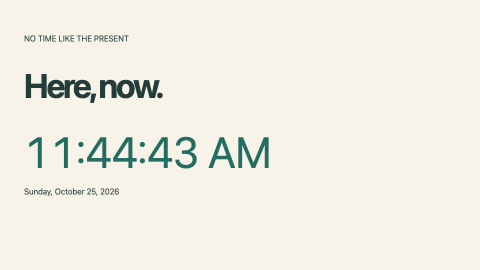
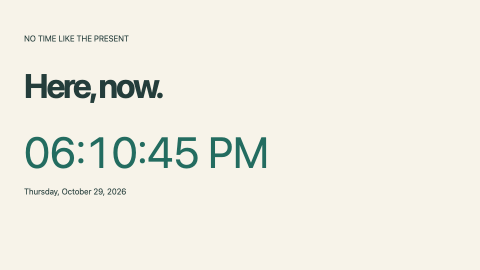
Unify HashBin saves with the sharing dialog

Changed region(s): [[0.0312, 0.5037, 0.2812, 0.6222], [0.3438, 0.5037, 0.5625, 0.6222], [0.0312, 0.6815, 0.2812, 0.7407]]

diff --git a/index.html b/index.html
@@ -29,12 +29,12 @@
           <button id="open-files">Open files…</button><label class="check-label"><input id="replace-import" type="checkbox"> Replace project on import</label>
           <label>Download<select id="download"><option value="">Choose a format…</option><option value="file">Current file</option><option value="html">Page as one .html</option><option value="zip">Project as .zip</option></select></label>
           <p class="fine">HTML downloads keep links to other pages. Use the ZIP for a whole site.</p>
-          <button id="share-mobile" class="mobile-only">Share link</button><button id="qr-mobile" class="mobile-only">QR code</button>
+          <button id="share-mobile" class="mobile-only">Share</button><button id="qr-mobile" class="mobile-only">QR code</button>
           <label class="mobile-only check-label"><input id="auto-mobile" type="checkbox" checked> Auto-refresh</label>
           <button id="hide-editor">Hide editor</button>
           <p class="menu-label">HashBin</p>
           <label for="hashbin-cid">CID or saved link</label><div class="inline-controls"><input id="hashbin-cid" placeholder="Paste a CID"><button id="hashbin-load">Load</button></div>
-          <button id="hashbin-save">Save to HashBin</button><p id="hashbin-status" class="fine" role="status"></p>
+          <p id="hashbin-status" class="fine" role="status"></p>
           <p class="menu-label">Explore & learn</p>
           <div class="docs-links"><a href="gallery.html">Sample gallery ↗</a><a href="./?example=guide&view" target="_blank" rel="noopener">Guide ↗</a><a href="https://developer.mozilla.org/en-US/docs/Web/HTML" target="_blank" rel="noopener">HTML ↗</a><a href="https://developer.mozilla.org/en-US/docs/Web/CSS" target="_blank" rel="noopener">CSS ↗</a><a href="https://developer.mozilla.org/en-US/docs/Web/JavaScript" target="_blank" rel="noopener">JavaScript ↗</a><a href="https://commonmark.org/help/" target="_blank" rel="noopener">Markdown ↗</a><a href="https://github.github.com/gfm/" target="_blank" rel="noopener">GFM ↗</a><a href="https://github.com/curtcox/pages" target="_blank" rel="noopener">Fork on GitHub ↗</a></div>
         </div></details>
@@ -64,9 +64,8 @@
   <footer id="app-footer"><span><i class="status-dot"></i> <span id="offline-status">Setting up offline access…</span> <button id="offline-action" hidden>Retry offline setup</button></span><a href="gallery.html">18 little starting points →</a><span>HTML · CSS · JavaScript · Markdown</span></footer>
   <input id="file-input" type="file" multiple accept=".html,.htm,.css,.js,.mjs,.md,.json,.svg,.txt,.csv,.xml" hidden>
   <dialog id="file-dialog"><form method="dialog"><header><h2>File actions</h2><button aria-label="Close">×</button></header><label>File name<input id="file-name" required maxlength="240"></label><p class="fine">Renaming does not update references in other files.</p><div class="dialog-actions"><button id="rename-file" type="button">Rename</button><button id="entry-file" type="button">Use as entry page</button><button id="delete-file" type="button" class="danger">Delete file</button></div></form></dialog>
-  <dialog id="share-dialog"><header><h2>Share your project</h2><button id="share-close" aria-label="Close">×</button></header><label>Open link in<select id="share-mode"><option value="editor">Editor</option><option value="view">Page only</option></select></label><label class="check-label"><input id="share-no-run" type="checkbox"> Don't run on open</label><label>Share link<textarea id="share-url" rows="3" readonly></textarea></label><p id="share-status" class="fine" role="status"></p><div class="dialog-actions"><button id="share-copy" class="primary">Copy</button><button id="share-shorten">Shorten link</button></div><p class="fine">Links contain your project. Save to HashBin for a shorter saved link.</p></dialog>
+  <dialog id="share-dialog"><header><h2>Share your project</h2><button id="share-close" aria-label="Close">×</button></header><label>Open link in<select id="share-mode"><option value="editor">Editor</option><option value="view">Page only</option></select></label><label class="check-label"><input id="share-no-run" type="checkbox"> Don't run on open</label><label>Share link<textarea id="share-url" rows="3" readonly></textarea></label><p id="share-status" class="fine" role="status"></p><div class="dialog-actions"><button id="share-copy" class="primary">Copy</button><button id="share-shorten">Shorten link</button><button id="hashbin-confirm" disabled>Save to HashBin</button></div><p class="fine">Links contain your project. Save to HashBin for a shorter saved link.</p><p id="hashbin-message" role="status"></p></dialog>
   <dialog id="qr-dialog"><header><h2>A page to pass along</h2><button id="qr-close" aria-label="Close">×</button></header><label>QR destination<select id="qr-mode"><option value="editor">Opens the editor</option><option value="view">Opens the page only</option></select></label><div id="qr-code"></div><p id="qr-warning" class="fine" role="status"></p><div class="dialog-actions"><button id="qr-svg">Download SVG</button><button id="qr-png">Download PNG</button></div></dialog>
-  <dialog id="hashbin-dialog"><header><h2>Save to HashBin</h2><button id="hashbin-close" aria-label="Close">×</button></header><p id="hashbin-message" role="status"></p><div class="dialog-actions"><button id="hashbin-confirm" class="primary">Review on HashBin</button></div></dialog>
   <script src="vendor/marked.min.js?v=1"></script><script src="vendor/acorn.min.js?v=1"></script><script src="vendor/lz-string.min.js?v=1"></script>
   <script src="src/project.js?v=1"></script><script src="src/markdown.js?v=1"></script><script src="src/loop-guard.js?v=1"></script><script src="src/preview-runtime.js?v=1"></script><script src="src/bundler.js?v=1"></script><script src="src/preview.js?v=1"></script><script src="src/console-view.js?v=1"></script><script src="src/render-scheduler.js?v=1"></script><script src="src/hashbin.js?v=1"></script><script src="src/hashbin-panel.js?v=1"></script><script src="src/share-links.js?v=1"></script><script src="src/qr.js?v=1"></script><script src="src/zip.js?v=1"></script><script src="src/export.js?v=1"></script><script src="src/examples.js?v=1"></script><script src="src/app.js?v=1"></script><script src="src/offline.js?v=1"></script>
 </body>

diff --git a/src/app.js b/src/app.js
@@ -101,7 +101,7 @@ function setProject(value,{cid = null,render = auto,reset = true,update = true} 
 }
 const store = new HashBinStore({clientId:document.querySelector('meta[name=hashbin-client-id]').content,redirectUri:new URL('./',location.href).href,storage:local,transactionStorage:session});
 let linkLoad = false;
-const panel = new HashBinPanel({store,getSnapshot:snapshot,getFingerprint:fingerprint,onLoad:(value,cid)=>{ if (linkLoad && !acceptLink(value)) { kept = true; return false; } setProject(value,{cid}); $('more').open = false; },onSaved:(cid,fp,link)=>{savedCID = cid;savedFingerprint = fp;history.replaceState(null,'',link);}});
+const panel = new HashBinPanel({store,getSnapshot:snapshot,getFingerprint:fingerprint,onLoad:(value,cid)=>{ if (linkLoad && !acceptLink(value)) { kept = true; return false; } setProject(value,{cid}); $('more').open = false; },onSaved:(cid,fp,link)=>{savedCID = cid;savedFingerprint = fp;history.replaceState(null,'',link);refreshShare();},getShareOptions:shareOptions,getSavedLink:(cid,project)=>ShareLinks.build({url:location.href,project,cid,...shareOptions()}).long});
 window.pagesApp = {getProject:snapshot,setProject,preview,store,get editor(){return editor;},run};
 $('run').onclick = run; $('reload').onclick = run; $('view-run').onclick = run;
 $('auto-refresh').onchange = event=>setAuto(event.target.checked); $('auto-mobile').onchange = event=>setAuto(event.target.checked); setAuto(auto);
@@ -127,8 +127,9 @@ $('open-files').onclick = ()=>$('file-input').click();
 $('file-input').onchange = async event=>{ try { const result = await Export.importFiles(event.target.files,snapshot(),$('replace-import').checked); setProject(result); $('more').open = false; } catch (error) { notice(error.message); } event.target.value = ''; };
 $('download').onchange = event=>{ const kind = event.target.value; event.target.value = ''; try { if (kind === 'file') Export.file(snapshot()); if (kind === 'html') Export.html(snapshot(),preview.page || project.entry); if (kind === 'zip') Export.project(snapshot()); } catch (error) { notice(error.message); } };
 const shareClient = new ShareClient(); let shareRevision = 0;
-function refreshShare() { shareRevision++; shareClient.cancel(); $('share-url').value = shareLink({view:$('share-mode').value === 'view',run:!$('share-no-run').checked}).long; $('share-status').textContent = ''; }
-function openShare() { $('more').open = false; refreshShare(); $('share-dialog').showModal(); }
+function shareOptions() { return {view:$('share-mode').value === 'view',run:!$('share-no-run').checked,page:preview.page || project.entry}; }
+function refreshShare() { shareRevision++; shareClient.cancel(); $('share-url').value = shareLink(shareOptions()).long; $('share-status').textContent = ''; panel.refreshSavedLink(); }
+function openShare() { $('more').open = false; refreshShare(); $('share-dialog').showModal(); panel.openSave(); }
 $('share').onclick = openShare; $('share-mobile').onclick = openShare; $('share-close').onclick = ()=>$('share-dialog').close();
 $('share-mode').onchange = refreshShare; $('share-no-run').onchange = refreshShare;
 $('share-dialog').addEventListener('close',()=>{shareRevision++;shareClient.cancel();});
@@ -169,7 +170,7 @@ if (!view) {
     editor.commands.addCommand({name:'run-page',bindKey:{win:'Ctrl-Enter',mac:'Command-Enter'},exec:run});
   } catch (_) { fallback = document.createElement('textarea'); fallback.className = 'fallback-editor'; fallback.setAttribute('aria-label','Source editor'); fallback.spellcheck = false; fallback.oninput = changed; $('ace-editor').append(fallback); notice('The code editor could not load. You can keep editing in the text field.'); }
 }
-let restored = false, kept = false;
+let restored = false, kept = false, returnedShare = false;
 if (!view) {
   try { const stored = local?.getItem(key); if (stored) project = Project.validate(JSON.parse(stored)); }
   catch (_) { notice('The saved project could not be restored. Starting with a fresh page.'); }
@@ -180,7 +181,15 @@ if (initial.kind === 'publish') {
   if (beforeReturn !== fingerprint()) {
     restored = true; updateURL();
     notice('The HashBin return finished after you edited the project. Your newer edits were kept.');
-  } else if (result?.snapshot) { setProject(result.snapshot,{cid:result.cid || null,render:false}); restored = true; } else updateURL();
+  } else if (result?.snapshot) {
+    setProject(result.snapshot,{cid:result.cid || null,render:false}); restored = true;
+    if (result.share) {
+      $('share-mode').value = result.share.view === true ? 'view' : 'editor';
+      $('share-no-run').checked = result.share.run === false;
+      if (project.files.some(f=>f.name === result.share.page && Project.PAGE.test(f.name))) preview.page = result.share.page;
+      returnedShare = true;
+    }
+  } else updateURL();
   if (result?.error) notice(result.error); else if (result) $('hashbin-status').textContent = 'Saved to HashBin.';
 }
 if (!restored) {
@@ -198,11 +207,12 @@ if (initial.kind === 'cid' && !restored) {
   // Keep a source revision so a slow CID request cannot replace edits made during loading.
   linkLoad = true; await panel.load(initial.cid); linkLoad = false;
   if (initial.page && project.files.some(f=>f.name === initial.page && Project.PAGE.test(f.name))) preview.page = initial.page;
-  if (auto) run();
+  if (auto) run(); else $('view-run').hidden = !view;
 } else if (auto && initial.run !== false) run();
 else $('view-run').hidden = !view;
 persist();
 if (kept) updateURL();
+if (returnedShare) openShare();
 store.retireLegacyTokens().catch(()=>{ /* Retried on the next load. */ });
 window.addEventListener('hashchange',()=>location.reload());
 })();

diff --git a/src/examples.js b/src/examples.js
@@ -191,7 +191,7 @@ const Examples = {catalog:[
         },
         {
           "name": "sharing.md",
-          "text": "# Sharing & offline\n\n[Home](index.md) · [Files](files.md) · [Sandbox](sandbox.md)\n\n## Share a project\n\n**Share** creates a compressed link containing your project. Choose Editor or Page only, and optionally Don't run on open. Anyone with the link can read its source. Avoid including secrets.\n\nPage-only links keep a small strip identifying the content as a user-created page. The Edit link brings the same project into the editor.\n\n**QR** encodes the link and downloads SVG or PNG. Large projects make dense QR codes; Save to HashBin creates a shorter link. The optional is.gd shortener uses the AllOrigins proxy and needs a connection.\n\n## HashBin\n\nLoad a CID without signing in. Saving uses your HashBin account balance and retention settings, with a quote before saving. Sign-in preserves your project in this tab.\n\nPages Online has a registered public client ID. Choose **More → Save to HashBin** to connect your account; sign-in returns to `https://curtcox.github.io/pages/`. The browser app uses no client secret. The JSON document can be larger than the raw files because it includes the entry source for compatibility; HashBin checks the full document against its 5 MiB limit.\n\n## Take your files with you\n\nDownload the current file, the displayed page as one HTML file, or the project ZIP. A ZIP preserves every file path and can be hosted directly. One-page HTML downloads keep links to other pages, which must be downloaded separately. Markdown source files need conversion to HTML before ordinary static hosting will render them as pages.\n\nOpen files can add local text files or replace the project. Importing a ZIP or binary image is deferred.\n\n## Offline\n\nWhen the footer says **Available offline**, the app, editor, bundled libraries, samples, and gallery covers are cached. You can install it as a PWA. External resources in your page (CDN scripts, fonts, photos) are not cached, because the sandbox is not controlled by the editor's service worker. HashBin and link shortening also need internet.\n\nUpdates offer **Update and reload** after preserving your project. Browser storage is best-effort: download a backup of work you want to keep.\n"
+          "text": "# Sharing & offline\n\n[Home](index.md) · [Files](files.md) · [Sandbox](sandbox.md)\n\n## Share a project\n\n**Share** creates a compressed link containing your project. Choose Editor or Page only, and optionally Don't run on open. Anyone with the link can read its source. Avoid including secrets.\n\nPage-only links keep a small strip identifying the content as a user-created page. The Edit link brings the same project into the editor.\n\n**QR** encodes the link and downloads SVG or PNG. Large projects make dense QR codes; Save to HashBin creates a shorter link. The optional is.gd shortener uses the AllOrigins proxy and needs a connection.\n\n## HashBin\n\nLoad a CID without signing in. Saving uses your HashBin account balance and retention settings, with a quote before saving. Sign-in preserves your project in this tab.\n\nPages Online has a registered public client ID. Choose **Share**, select **Editor** or **Page only**, then **Save to HashBin**. HashBin shows the exact price and asks you to approve the save. The saved link appears in the same Share dialog, using your destination and **Don’t run on open** choices. If popups are blocked, the project and sharing choices are restored after returning to `https://curtcox.github.io/pages/`. The browser app uses no client secret. The JSON document can be larger than the raw files because it includes the entry source for compatibility; HashBin checks the full document against its 5 MiB limit.\n\n## Take your files with you\n\nDownload the current file, the displayed page as one HTML file, or the project ZIP. A ZIP preserves every file path and can be hosted directly. One-page HTML downloads keep links to other pages, which must be downloaded separately. Markdown source files need conversion to HTML before ordinary static hosting will render them as pages.\n\nOpen files can add local text files or replace the project. Importing a ZIP or binary image is deferred.\n\n## Offline\n\nWhen the footer says **Available offline**, the app, editor, bundled libraries, samples, and gallery covers are cached. You can install it as a PWA. External resources in your page (CDN scripts, fonts, photos) are not cached, because the sandbox is not controlled by the editor's service worker. HashBin and link shortening also need internet.\n\nUpdates offer **Update and reload** after preserving your project. Browser storage is best-effort: download a backup of work you want to keep.\n"
         }
       ],
       "entry": "index.md",

diff --git a/offline-assets.js b/offline-assets.js
@@ -1,6 +1,6 @@
 // GENERATED by scripts/update-offline.mjs.
 const OfflineAssets = {
-  "version": "pagesonline-7a3b21b35b82b12e",
+  "version": "pagesonline-d93f4d526b8baafa",
   "assets": [
     "ace/LICENSE",
     "ace/ace.js",
@@ -93,12 +93,12 @@ const OfflineAssets = {
[14 lines of base64/hex data omitted]
@@ -117,18 +117,18 @@ const OfflineAssets = {
[23 lines of base64/hex data omitted]

diff --git a/src/hashbin-panel.js b/src/hashbin-panel.js
@@ -1,16 +1,14 @@
 /** HashBin controls: snapshot saves approved on hashbin.org, and stale-load guards. */
 class HashBinPanel {
-  constructor({ store, getSnapshot, getFingerprint, onLoad, onSaved }) {
-    Object.assign(this, { store, getSnapshot, getFingerprint, onLoad, onSaved });
+  constructor({ store, getSnapshot, getFingerprint, onLoad, onSaved, getShareOptions, getSavedLink }) {
+    Object.assign(this, { store, getSnapshot, getFingerprint, onLoad, onSaved, getShareOptions, getSavedLink });
     this.revision = 0;
     this.status = document.getElementById('hashbin-status');
-    this.dialog = document.getElementById('hashbin-dialog');
+    this.dialog = document.getElementById('share-dialog');
     this.message = document.getElementById('hashbin-message');
     this.confirm = document.getElementById('hashbin-confirm');
     document.getElementById('hashbin-load').onclick = () => this.load(document.getElementById('hashbin-cid').value);
     document.getElementById('hashbin-cid').onkeydown = event => { if (event.key === 'Enter') this.load(event.target.value); };
-    document.getElementById('hashbin-save').onclick = () => this.openSave();
-    document.getElementById('hashbin-close').onclick = () => this.dialog.close();
     this.dialog.addEventListener('close', () => { this.dialogRevision = (this.dialogRevision || 0) + 1; });
     this.confirm.onclick = () => this.commit();
   }
@@ -34,7 +32,8 @@ class HashBinPanel {
     if (this.saving) return;
     const revision = this.dialogRevision = (this.dialogRevision || 0) + 1;
     this.confirm.disabled = true;
-    this.confirm.textContent = 'Review on HashBin';
+    this.confirm.textContent = 'Save to HashBin';
+    this.savedLink = null;
     this.message.textContent = 'Preparing save…';
     if (!this.dialog.open) this.dialog.showModal();
     try {
@@ -54,21 +53,27 @@ class HashBinPanel {
     this.confirm.disabled = true;
     this.saving = true;
     try {
-      const pending = this.store.publish(this.payload, this.snapshot);
+      const pending = this.store.publish(this.payload, this.snapshot, this.getShareOptions());
       this.message.textContent = 'Waiting for your approval on HashBin…';
       const result = await pending;
       if (result.redirected) return;
       this.saved(result.cid, this.fingerprint);
       this.message.replaceChildren(document.createTextNode('Saved. '));
       const a = document.createElement('a');
-      a.href = HashBinDocuments.link(location.href, result.cid);
-      a.textContent = 'Open saved source';
+      this.savedLink = { element:a, cid:result.cid, snapshot:this.snapshot };
+      this.refreshSavedLink();
       this.message.append(a);
       this.confirm.textContent = 'Saved';
     } catch (error) {
       this.message.textContent = error.message;
       this.confirm.disabled = false;
     } finally { this.saving = false; }
+  }
+  refreshSavedLink() {
+    if (!this.savedLink) return;
+    const { element, cid, snapshot } = this.savedLink;
+    element.href = this.getSavedLink(cid, snapshot);
+    element.textContent = this.getShareOptions().view ? 'Open saved page' : 'Open saved project';
   }
   /** Records a verified save, unless the project changed while HashBin was open. */
   saved(cid, fingerprint) {

diff --git a/src/hashbin.js b/src/hashbin.js
@@ -110,9 +110,9 @@ class HashBinStore {
     return this.initializing;
   }
   /** Call synchronously from a click after init(), so the approval popup is allowed. A blocked popup redirects. */
-  publish(payload, snapshot) {
+  publish(payload, snapshot, share) {
     if (!this.client) return Promise.reject(new Error('HashBin is still loading. Try again.'));
-    return this.client.publish(payload, { contentType: 'application/json', clientState: { snapshot } }).then(async result => {
+    return this.client.publish(payload, { contentType: 'application/json', clientState: { snapshot, ...(share ? { share } : {}) } }).then(async result => {
       if (result.redirected) return result;
       if (!HashBinDocuments.isCID(result.cid)) throw new Error('HashBin returned an invalid CID.');
       await HashBinDocuments.verify(result.cid, HashBinDocuments.bytes(payload));
@@ -131,14 +131,14 @@ class HashBinStore {
       const { cid, clientState } = await (await this.init()).handlePublishCallback({ hash });
       const snapshot = clientState?.snapshot;
       if (snapshot) await HashBinDocuments.verify(cid, HashBinDocuments.bytes(HashBinDocuments.serialize(snapshot)));
-      return { cid, snapshot };
+      return { cid, snapshot, ...(clientState?.share ? { share:clientState.share } : {}) };
     } catch (error) {
       let snapshot = null;
       if (error.clientState?.snapshot) {
         try { snapshot = HashBinDocuments.parse(HashBinDocuments.serialize(error.clientState.snapshot)); }
         catch (_) { return { error: 'The returned project is invalid. Your current project was kept.', snapshot: null }; }
       }
-      return { error: this.message(error), snapshot };
+      return { error: this.message(error), snapshot, ...(error.clientState?.share ? { share:error.clientState.share } : {}) };
     }
   }
   /** Earlier versions kept OAuth tokens on this shared origin. Revoke them server-side; clearing alone leaves copies valid. */

diff --git a/tests/hashbin.test.js b/tests/hashbin.test.js
@@ -54,3 +54,13 @@ test('network loads and saves verify bytes against the CID',async()=>{
  const store=new HashBinStore({clientId:'test',loadSDK:async()=>({HashBinClient:SDK})});await store.init();
  await assert.rejects(store.publish(payload,P.single('# Verified remote')),/does not match its CID/);
 });
+
+test('Publish carries sharing choices through approved and cancelled redirects',async()=>{
+ const snapshot=P.single('# Shared'),payload=D.serialize(snapshot),savedCid=cid(payload),share={view:true,run:false,page:'index.md'};let clientState;
+ class SDK{publish(content,options){clientState=options.clientState;return Promise.resolve({redirected:true})}async handlePublishCallback(){return {cid:savedCid,clientState}}}
+ const store=new HashBinStore({clientId:'test',loadSDK:async()=>({HashBinClient:SDK})});await store.init();
+ assert.deepEqual(await store.publish(payload,snapshot,share),{redirected:true});assert.deepEqual(clientState,{snapshot,share});
+ assert.deepEqual(await store.published('#hashbin_publish=s'),{cid:savedCid,snapshot,share});
+ store.client.handlePublishCallback=async()=>{throw Object.assign(new Error('access_denied'),{clientState})};
+ assert.deepEqual(await store.published('#hashbin_publish=s'),{error:'The save was cancelled on HashBin.',snapshot,share});
+});

diff --git a/README.md b/README.md
@@ -53,7 +53,7 @@ npm run offline
 
 ## HashBin setup
 
-**Pages Online** is registered with HashBin, and its public client ID is configured in the `hashbin-client-id` meta tag in `index.html`. Choose **More → Save to HashBin**, then **Review on HashBin**: HashBin Publish shows the size, retention, exact price and your balance, and you approve the save on hashbin.org. This app never holds a HashBin credential. If the popup is blocked, projects up to 512 KiB go through a redirect to the exact return URL **`https://curtcox.github.io/pages/`**, and the project is restored on return. Larger projects require enabling popups and retrying. Cancelled redirect saves restore the project too. The SDK is pinned to `https://hashbin.org/sdk/v0.4.0/hashbin.js` and loaded with the release's published Subresource Integrity hash; a substituted SDK is rejected. Upgrade the URL and integrity hash together using the [SDK release manifest](https://hashbin.org/sdk/v0.4.0/integrity.json). CID loading works without signing in: paste a CID or saved link into **More → HashBin → Load**, or open a `#<cid>` link.
+**Pages Online** is registered with HashBin, and its public client ID is configured in the `hashbin-client-id` meta tag in `index.html`. Choose **Share**, select **Editor** or **Page only**, then **Save to HashBin**: HashBin Publish shows the size, retention, exact price and your balance, and you approve the save on hashbin.org. The saved link appears in the same Share dialog and follows its destination and **Don’t run on open** choices. This app never holds a HashBin credential. If the popup is blocked, projects up to 512 KiB go through a redirect to the exact return URL **`https://curtcox.github.io/pages/`**, and the project is restored on return. Larger projects require enabling popups and retrying. Cancelled redirect saves restore the project too. The SDK is pinned to `https://hashbin.org/sdk/v0.4.0/hashbin.js` and loaded with the release's published Subresource Integrity hash; a substituted SDK is rejected. Upgrade the URL and integrity hash together using the [SDK release manifest](https://hashbin.org/sdk/v0.4.0/integrity.json). CID loading works without signing in: paste a CID or saved link into **More → HashBin → Load**, or open a `#<cid>` link.
 
 Documents use the sibling apps' `hashbin-diagram` envelope with `type: "pages"`, `src` containing the entry page, and `pages` containing the project. Editing invalidates a saved CID link and restores a complete source link. A link that would replace work kept in this browser asks first.
 

diff --git a/examples/guide/sharing.md b/examples/guide/sharing.md
@@ -14,7 +14,7 @@ Page-only links keep a small strip identifying the content as a user-created pag
 
 Load a CID without signing in. Saving uses your HashBin account balance and retention settings, with a quote before saving. Sign-in preserves your project in this tab.
 
-Pages Online has a registered public client ID. Choose **More → Save to HashBin** to connect your account; sign-in returns to `https://curtcox.github.io/pages/`. The browser app uses no client secret. The JSON document can be larger than the raw files because it includes the entry source for compatibility; HashBin checks the full document against its 5 MiB limit.
+Pages Online has a registered public client ID. Choose **Share**, select **Editor** or **Page only**, then **Save to HashBin**. HashBin shows the exact price and asks you to approve the save. The saved link appears in the same Share dialog, using your destination and **Don’t run on open** choices. If popups are blocked, the project and sharing choices are restored after returning to `https://curtcox.github.io/pages/`. The browser app uses no client secret. The JSON document can be larger than the raw files because it includes the entry source for compatibility; HashBin checks the full document against its 5 MiB limit.
 
 ## Take your files with you
 
